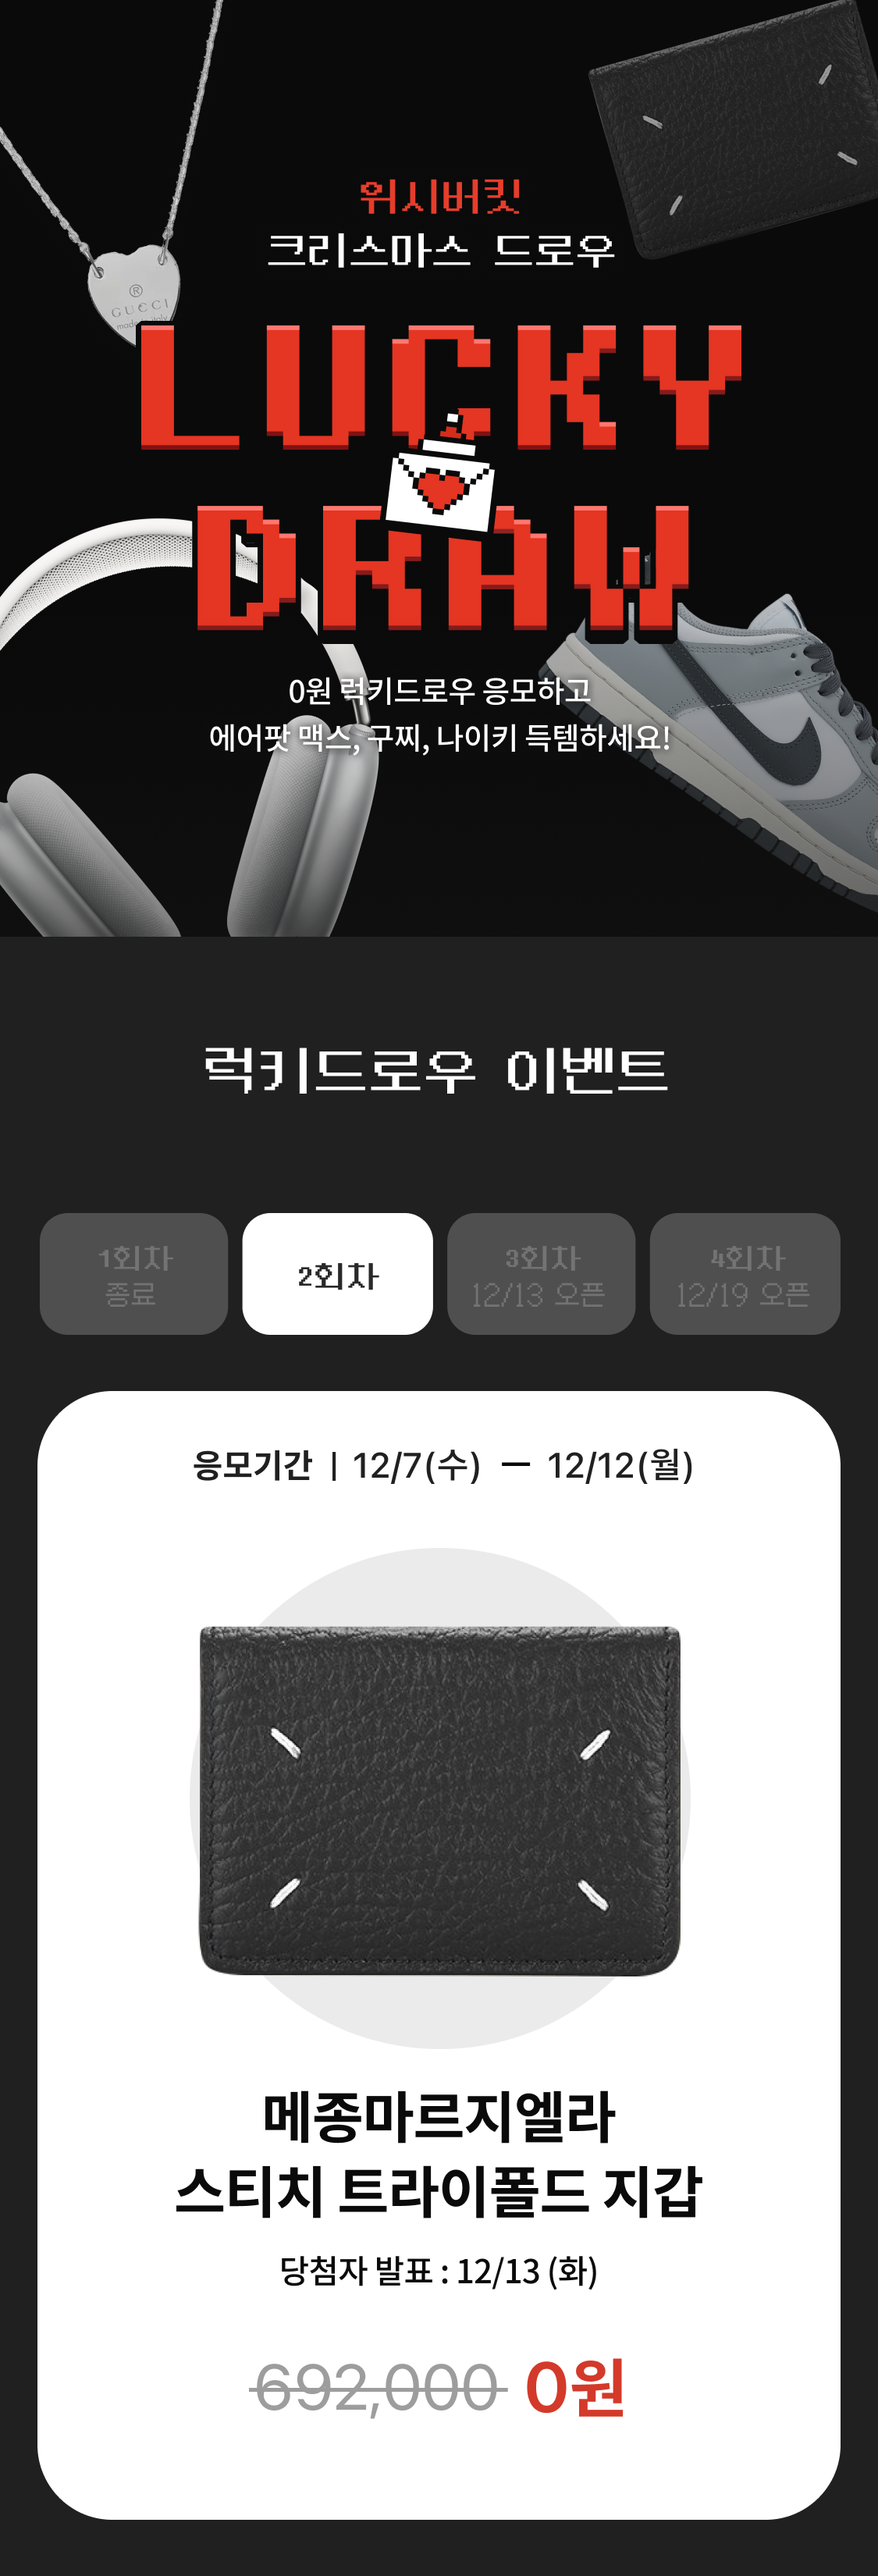
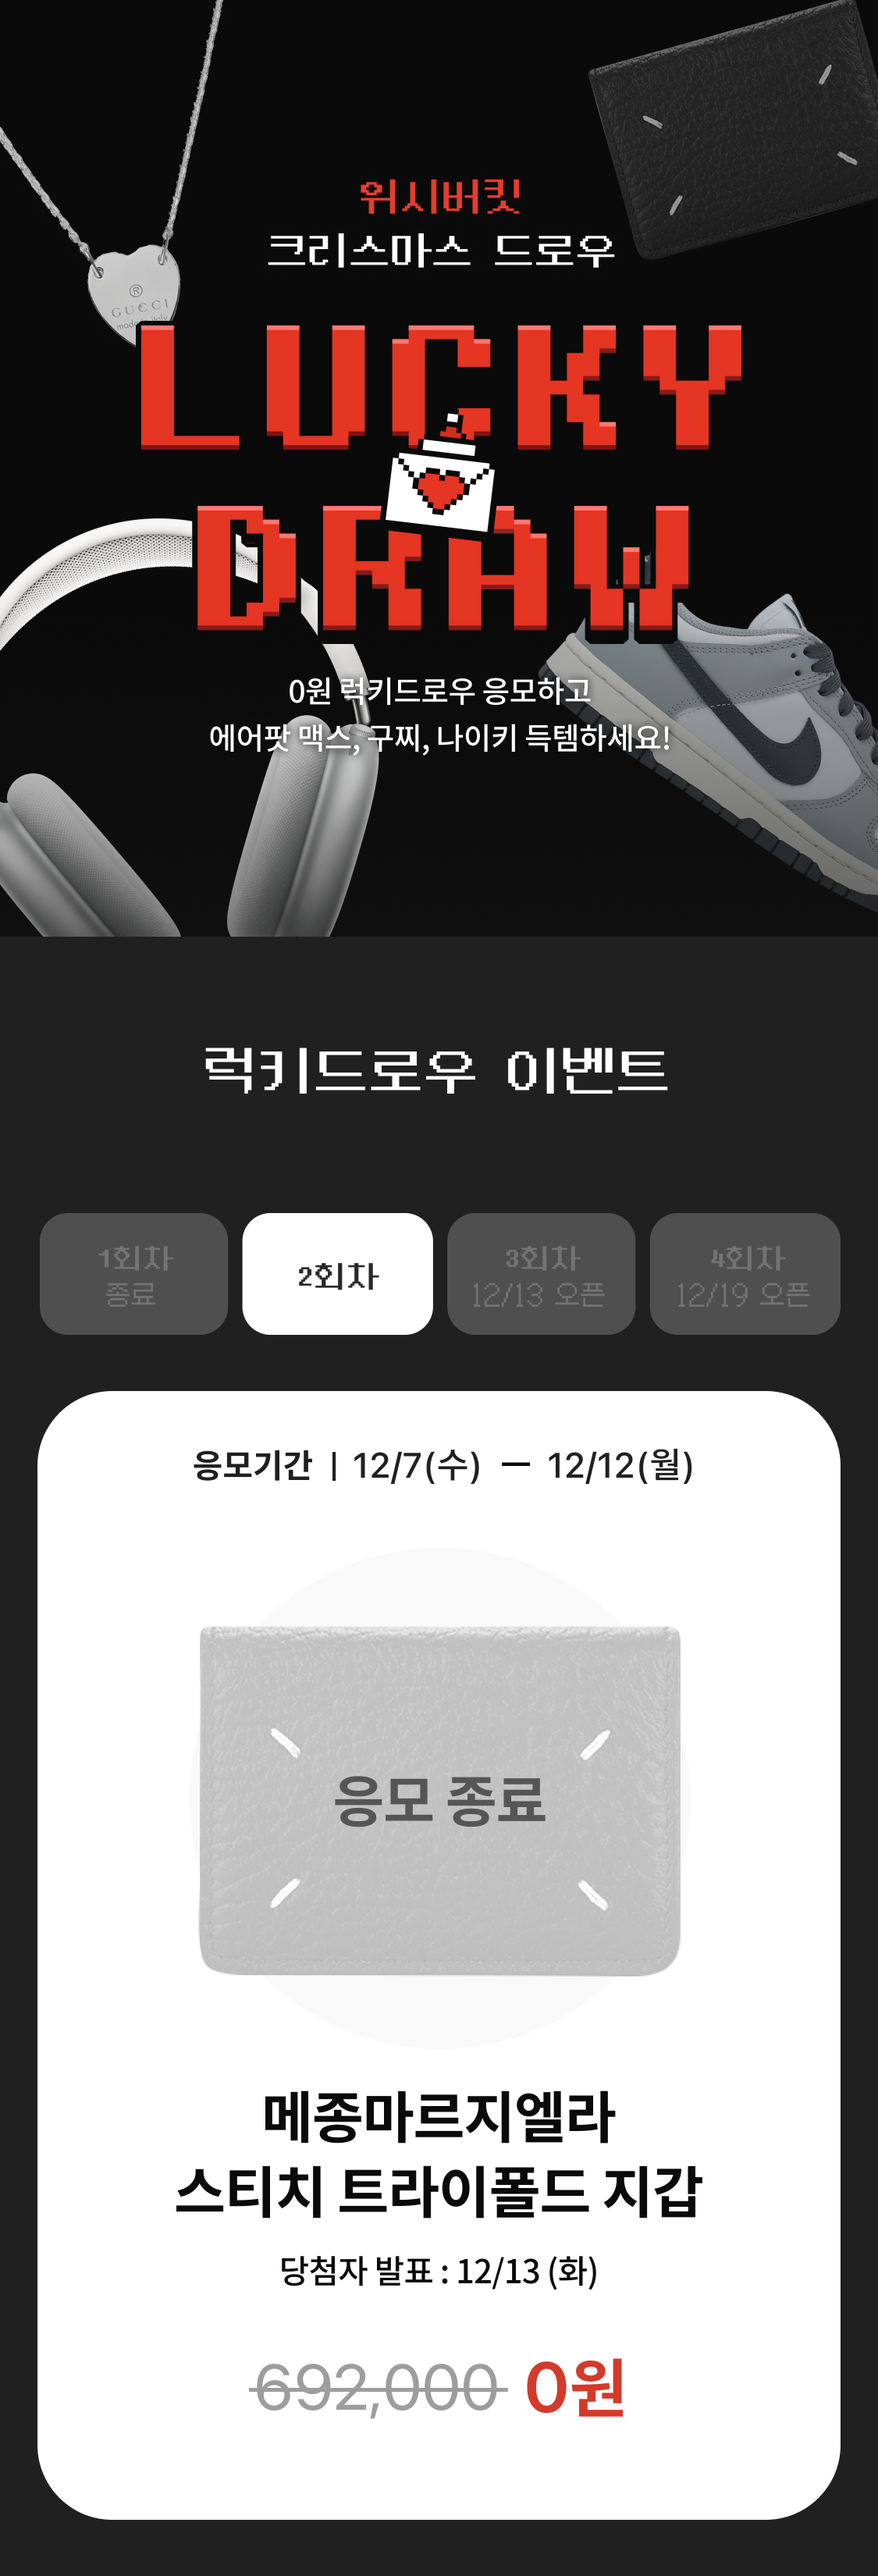
changed img

Changed region(s): [[0.2178, 0.6242, 0.7778, 0.7803]]

diff --git a/xmasEvent_2022/firstEvent.html b/xmasEvent_2022/firstEvent.html
@@ -17,11 +17,11 @@
 	<div class="subEventSection">
 		<!-- 이미지 -->
 		<div class="image">
-			<img class= "img" src="files/raffle_intro_2.png" alt="firstimg">
+			<img class= "img" src="files/raffle_intro_3.png" alt="firstimg">
 		</div>
 
 		<!--하단 버튼-->
-		<a class="img" id="btn" href="https://app.wishbucket.io/promo19" target="_blank">
+		<a class="img" id="btn" href="https://app.wishbucket.io/promo20" target="_blank">
 	     		 <img class="btn_img" src="files/eventBtn.png"/>
 	  	</a>
   	</div>	
@@ -38,8 +38,8 @@
 		<!-- 스케쥴 아이템 섹션 -->
 		<div class="itemSchedule">
 			<a class="image"><img class= "scheduleImg" src="files/raffleItem01_closed.png" alt="secondimg"></a>
-			<a class="image"><img class= "scheduleImg" src="files/raffleItem02_open.png" alt="secondimg"></a>
-			<a class="image"><img class= "scheduleImg" src="files/raffleItem03_pre.png" alt="secondimg"></a>
+			<a class="image"><img class= "scheduleImg" src="files/raffleItem02_closed.png" alt="secondimg"></a>
+			<a class="image"><img class= "scheduleImg" src="files/raffleItem03_open.png" alt="secondimg"></a>
 			<a class="image"><img class= "scheduleImg" src="files/raffleItem04_pre.png" alt="secondimg"></a>	
 		</div>	
 
@@ -62,18 +62,18 @@
 	<div class="subEventSection">
 		<!-- 이미지 -->
 		<div class="image">
-			<img class= "img" src="files/raffle03-2.png" alt="thirdimg">
+			<img class= "img" src="files/raffle03-3.png" alt="thirdimg">
 		</div>
 
 		
 		<!--시크릿딜 버튼-->
 		<div class="secretdeal">
-			<a class="sdcard" id="sdcard1" href="https://app.wishbucket.io/deals" target="_blank"> <img class="card_img" src="files/secretdeal2-01.png"/></a>
-			<a class="sdcard" id="sdcard2" href="https://app.wishbucket.io/deals" target="_blank"> <img class="card_img" src="files/secretdeal2-02.png"/></a>
-			<a class="sdcard" id="sdcard3" href="https://app.wishbucket.io/deals" target="_blank"> <img class="card_img" src="files/secretdeal2-03.png"/></a>
-			<a class="sdcard" id="sdcard4" href="https://app.wishbucket.io/deals" target="_blank"> <img class="card_img" src="files/secretdeal2-04.png"/></a>
-			<a class="sdcard" id="sdcard5" href="https://app.wishbucket.io/deals" target="_blank"> <img class="card_img" src="files/secretdeal2-05.png"/></a>
-			<a class="sdcard" id="sdcard6" href="https://app.wishbucket.io/deals" target="_blank"> <img class="card_img" src="files/secretdeal2-06.png"/></a>
+			<a class="sdcard" id="sdcard1" href="https://app.wishbucket.io/deals" target="_blank"> <img class="card_img" src="files/secretdeal3-01.png"/></a>
+			<a class="sdcard" id="sdcard2" href="https://app.wishbucket.io/deals" target="_blank"> <img class="card_img" src="files/secretdeal3-02.png"/></a>
+			<a class="sdcard" id="sdcard3" href="https://app.wishbucket.io/deals" target="_blank"> <img class="card_img" src="files/secretdeal3-03.png"/></a>
+			<a class="sdcard" id="sdcard4" href="https://app.wishbucket.io/deals" target="_blank"> <img class="card_img" src="files/secretdeal3-04.png"/></a>
+			<a class="sdcard" id="sdcard5" href="https://app.wishbucket.io/deals" target="_blank"> <img class="card_img" src="files/secretdeal3-05.png"/></a>
+			<a class="sdcard" id="sdcard6" href="https://app.wishbucket.io/deals" target="_blank"> <img class="card_img" src="files/secretdeal3-06.png"/></a>
 		</div>
 
 

diff --git a/xmasEvent_2022/rafflePromo_02.html b/xmasEvent_2022/rafflePromo_02.html
@@ -23,6 +23,14 @@
   	</div>	
 
 
+	<!--하단 버튼-->
+		<a class="img" id="btn" href="https://app.wishbucket.io/promo20">
+	     		 <img class="btn_img" src="files/nextRaffle.png"/>
+	  	</a>
+
+
+
+
 	<!-- 럭키드로우 스케쥴 / 팁 -->	
 
 	<div class="subEventSection">

diff --git a/xmasEvent_2022/rafflePromo_01.html b/xmasEvent_2022/rafflePromo_01.html
@@ -23,7 +23,7 @@
   	</div>	
 
   	<!--하단 버튼-->
-		<a class="img" id="btn" href="https://app.wishbucket.io/promo19">
+		<a class="img" id="btn" href="https://app.wishbucket.io/promo20">
 	     		 <img class="btn_img" src="files/nextRaffle.png"/>
 	  	</a>
 
